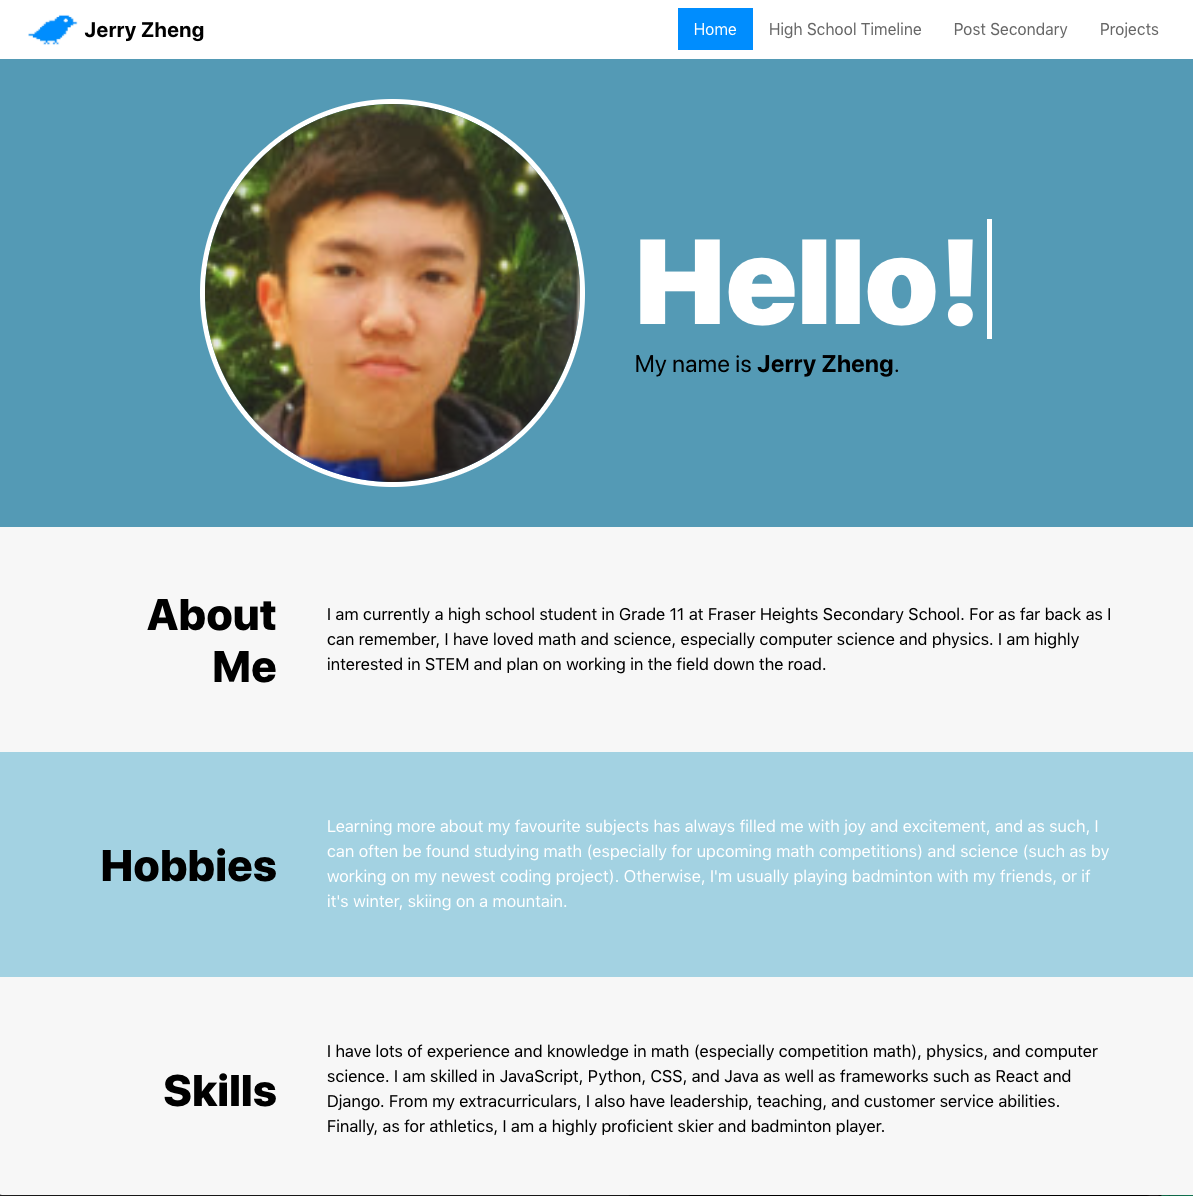
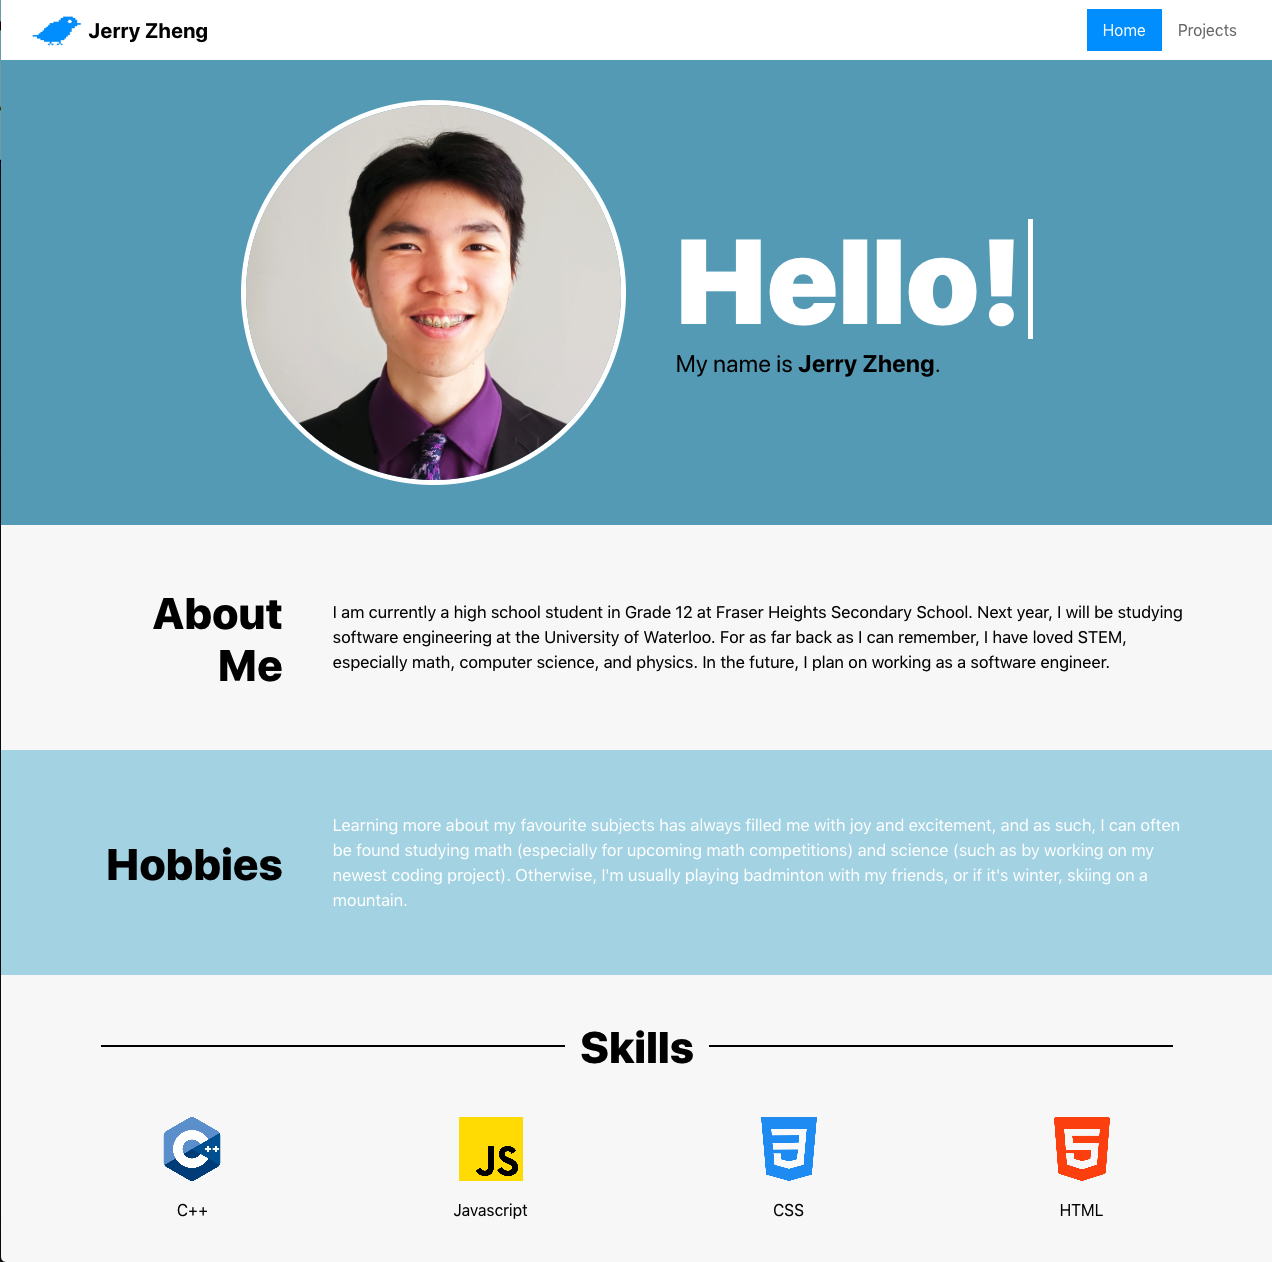
Update images

diff --git a/src/components/ProfileMain/ProfileMain.module.css b/src/components/ProfileMain/ProfileMain.module.css
@@ -10,6 +10,8 @@
     border-radius: 50%; 
     border: 5px solid white; 
     width: 375px; 
+    height: 375px;
+    object-fit: cover; 
 }
 
 .TextContainer {
